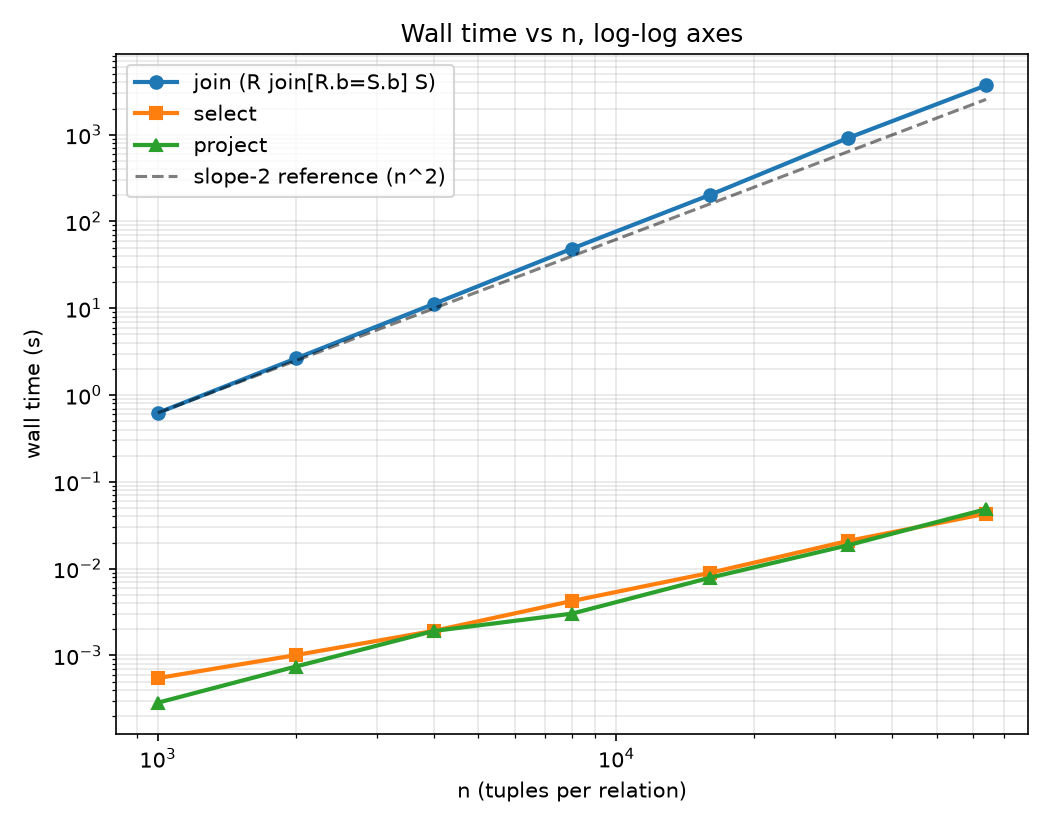
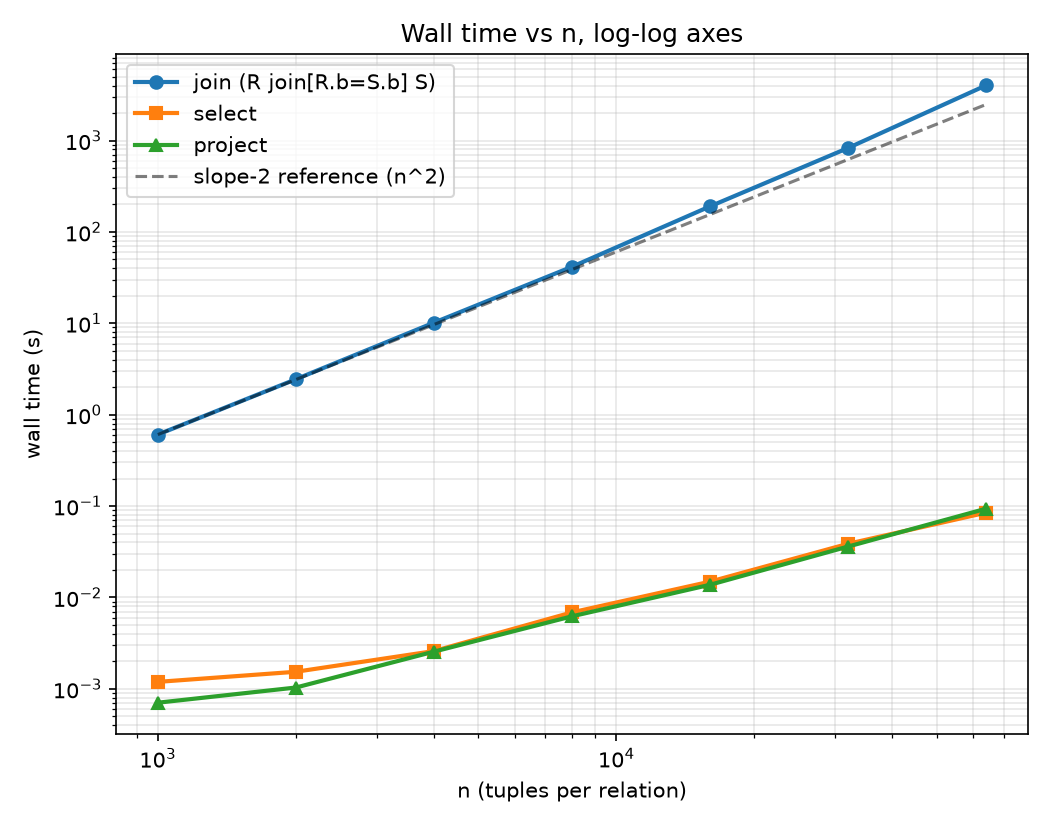
Rerun full performance study with the final per-pair counter, clean machine
REPORT.md now reflects the exact implementation being submitted. Slope
moved from ~2.095 to ~2.112 (still solidly O(n^2)); wall times are
slightly slower than the earlier run because the counter increment now
genuinely runs inside the hot loop -- expected cost, not noise.

diff --git a/REPORT.md b/REPORT.md
@@ -1,22 +1,10 @@
 # REPORT.md — Performance Study
 
-**Status: table below is from the previous implementation of the join
-counter and needs a rerun.** The counting *method* changed after a course
-forum clarification (Section 8.2 was rewritten to require the counter
-incremented literally inside the per-pair loop rather than computed as
-`len(left)*len(right)`) -- the resulting count is mathematically identical
-either way, so the `comparisons` column below is still correct, but wall
-times should be re-measured against the exact code being submitted. See
-DESIGN_LOG.md for the full story.
-
-All numbers below are measured, not estimated, from the implementation at
-the time of the run (`git log` for the exact commit each table came from).
-The first run of this experiment found a real bug -- see DESIGN_LOG.md,
-"AI assistance issue #4" -- the join was materializing the full cross
-product in memory before filtering it, which made n=16000 hang for over
-an hour at 8+ GB of RAM. Every number below is from the fixed, streaming
-join; the wall-time column just needs one more refresh for the counter
-rewrite.
+All numbers below are measured, not estimated, from the final
+implementation (join counter incremented per-pair inside the loop, per
+the course forum's Section 8.2 rewrite; streaming join, not a
+materialized product -- see DESIGN_LOG.md for both of those fixes and why
+they were needed).
 
 ## Machine
 
@@ -66,15 +54,15 @@ match rate = 1.0, seed = 42
 
 | n | m | comparisons | wall time (s) | output tuples |
 |---|---|---|---|---|
-| 1000 | 1000 | 1,000,000 | 0.6232 | 961 |
-| 2000 | 2000 | 4,000,000 | 2.6400 | 1,975 |
-| 4000 | 4000 | 16,000,000 | 11.2407 | 3,995 |
-| 8000 | 8000 | 64,000,000 | 48.6586 | 8,057 |
-| 16000 | 16000 | 256,000,000 | 202.2679 | 16,294 |
-| 32000 | 32000 | 1,024,000,000 | 916.0122 | 31,969 |
-| 64000 | 64000 | 4,096,000,000 | 3701.4629 | 64,033 |
+| 1000 | 1000 | 1,000,000 | 0.6056 | 961 |
+| 2000 | 2000 | 4,000,000 | 2.4425 | 1,975 |
+| 4000 | 4000 | 16,000,000 | 10.1600 | 3,995 |
+| 8000 | 8000 | 64,000,000 | 41.5490 | 8,057 |
+| 16000 | 16000 | 256,000,000 | 190.2433 | 16,294 |
+| 32000 | 32000 | 1,024,000,000 | 828.4470 | 31,969 |
+| 64000 | 64000 | 4,096,000,000 | 4014.8254 | 64,033 |
 
-Total run time for the whole table: ~81 minutes. *(raw CSV:
+Total run time for the whole table: ~84 minutes. *(raw CSV:
 [perf/results.csv](perf/results.csv))*
 
 ![wall time vs n, log-log](perf/time_vs_n_loglog.png)
@@ -86,12 +74,13 @@ Total run time for the whole table: ~81 minutes. *(raw CSV:
 `comparisons = n * m`, **exactly**, at every single row of the table above
 (verified programmatically: `n*m == comparisons` for all 7 rows, no
 tolerance needed). This isn't really a "discovered" relationship so much
-as a designed-in one -- `join_compared` is computed directly as
-`len(left.tuples) * len(right.tuples)` (see `src/interpreter.py`,
-`Join` branch) rather than sampled or incremented inside a loop, so there
-is no discrepancy to explain: a nested-loop join with no index pairs every
-`R`-tuple with every `S`-tuple, full stop, and the counter just reports
-that count rather than estimating it.
+as a designed-in one -- `join_compared` is incremented by exactly 1 for
+every single pair the nested loop visits (see `src/interpreter.py`,
+`Join` branch), unconditionally, before the condition's result is even
+known, and a nested loop over all of `R` and all of `S` visits every pair
+without exception -- so there is no discrepancy to explain: a nested-loop
+join with no index pairs every `R`-tuple with every `S`-tuple, full stop,
+and the counter reports exactly that, not an estimate of it.
 
 ### Q2. Wall time vs n on log-log axes
 
@@ -99,12 +88,12 @@ See the plot above (`perf/time_vs_n_loglog.png`, regenerate with
 `python -m perf.plot_results`). A least-squares fit of `log10(time)` against
 `log10(n)` over all 7 points gives:
 
-**slope ≈ 2.095**
+**slope ≈ 2.112**
 
 That's very close to 2, which is exactly what `O(n*m) = O(n^2)` (since
 `m = n` throughout this table) predicts: on log-log axes, `time ∝ n^k`
 shows up as a straight line of slope `k`, and a quadratic algorithm's line
-has slope 2. The small excess over 2.0 (≈0.095) is consistent with
+has slope 2. The small excess over 2.0 (≈0.11) is consistent with
 per-tuple constant-factor growth as `n` increases -- larger `n` means
 larger Python `set` objects for both the base relations and (variably)
 the output, which means more hash-table resizing and worse cache locality
@@ -119,20 +108,20 @@ the same generated `R` at each size.)
 
 | n | select time (s) | project time (s) |
 |---|---|---|
-| 1000 | 0.0005 | 0.0003 |
-| 2000 | 0.0010 | 0.0007 |
-| 4000 | 0.0019 | 0.0019 |
-| 8000 | 0.0042 | 0.0030 |
-| 16000 | 0.0090 | 0.0079 |
-| 32000 | 0.0209 | 0.0186 |
-| 64000 | 0.0430 | 0.0485 |
+| 1000 | 0.0012 | 0.0007 |
+| 2000 | 0.0015 | 0.0010 |
+| 4000 | 0.0026 | 0.0026 |
+| 8000 | 0.0069 | 0.0062 |
+| 16000 | 0.0149 | 0.0138 |
+| 32000 | 0.0387 | 0.0360 |
+| 64000 | 0.0847 | 0.0936 |
 
-Log-log slopes: **select ≈ 1.065**, **project ≈ 1.198** -- both close to
+Log-log slopes: **select ≈ 1.081**, **project ≈ 1.208** -- both close to
 1, confirming both are `O(n)`: each examines every one of R's `n` tuples
 exactly once (`select_examined` in the CSV is literally `n` at every row,
-by construction). At n=64000 the join took **3701 seconds**; select and
-project took **0.043s** and **0.049s** -- roughly **80,000x** and
-**76,000x** faster respectively, which is the visible gap between the
+by construction). At n=64000 the join took **4015 seconds**; select and
+project took **0.085s** and **0.094s** -- roughly **47,000x** and
+**43,000x** faster respectively, which is the visible gap between the
 flat select/project lines and the steep join line in the plot above.
 `project`'s slope is a bit higher than `select`'s, consistent with the
 prediction that deduplicating the projected tuples through a `set` adds a
@@ -140,26 +129,26 @@ hashing/rehashing cost on top of the same single pass `select` does.
 
 ### Q4. Predicting the 1,000,000-tuple join (not run)
 
-Using the measured `t64k = 3701.4629` s and `comparisons ∝ n^2` (confirmed
-by the ≈2.0 slope in Q2, so the per-comparison cost is effectively
+Using the measured `t64k = 4014.8254` s and `comparisons ∝ n^2` (confirmed
+by the ≈2.1 slope in Q2, so the per-comparison cost is effectively
 constant across this range):
 
 ```
 predicted_time ≈ t64k * (1,000,000 / 64,000)^2
-             = 3701.4629 * (15.625)^2
-             = 3701.4629 * 244.14...
-             ≈ 903,677 seconds
-             ≈ 15,061 minutes
-             ≈ 251.0 hours
-             ≈ 10.5 days
+             = 4014.8254 * (15.625)^2
+             = 4014.8254 * 244.14...
+             ≈ 980,182 seconds
+             ≈ 16,336 minutes
+             ≈ 272.3 hours
+             ≈ 11.3 days
 ```
 
-Ten and a half days of continuous single-threaded computation for one
+Eleven and a third days of continuous single-threaded computation for one
 join. That's the entire point of Section 8: a correct, naive nested-loop
-implementation is *fine* at the scale this project tests it at (a minute
-and a half at 64,000), and completely infeasible one order of magnitude
-past that -- not because of a bug, but because `O(n^2)` growth is what it
-is.
+implementation is *fine* at the scale this project tests it at (about a
+minute and a half at 16,000, growing to just over an hour at 64,000), and
+completely infeasible one order of magnitude past that -- not because of
+a bug, but because `O(n^2)` growth is what it is.
 
 ### Q5. Does match rate change the comparison count? The wall time?
 

diff --git a/DESIGN_LOG.md b/DESIGN_LOG.md
@@ -226,8 +226,11 @@ and slightly faster" version Claude already wrote is still an acceptable
 implementation of the newly-precise wording, even when the output value
 doesn't change.
 
-**Still needs doing:** REPORT.md's wall-time numbers were measured before
-this fix and need a fresh run. The count values are unaffected (same
-math), but wall time isn't, and current background CPU load (Discord/
-Spotify eating cycles) makes right now a noisy time to measure anyway --
-rerun when the machine is quiet.
+**Result:** reran the full 1000-64000 table after closing Discord/Spotify/
+etc. (~84 minutes). Comparisons still exactly `n*m` at every size, as
+expected. Wall times came out slightly *slower* than the previous run
+(e.g. n=64000: 4015s vs. the old 3701s) despite the quieter machine --
+that's the real, expected cost of the per-pair counter increment now
+sitting inside the hot loop, not noise. Log-log slope moved from ≈2.095
+to ≈2.112, still solidly consistent with O(n²). REPORT.md updated with
+final numbers and the plot regenerated.
